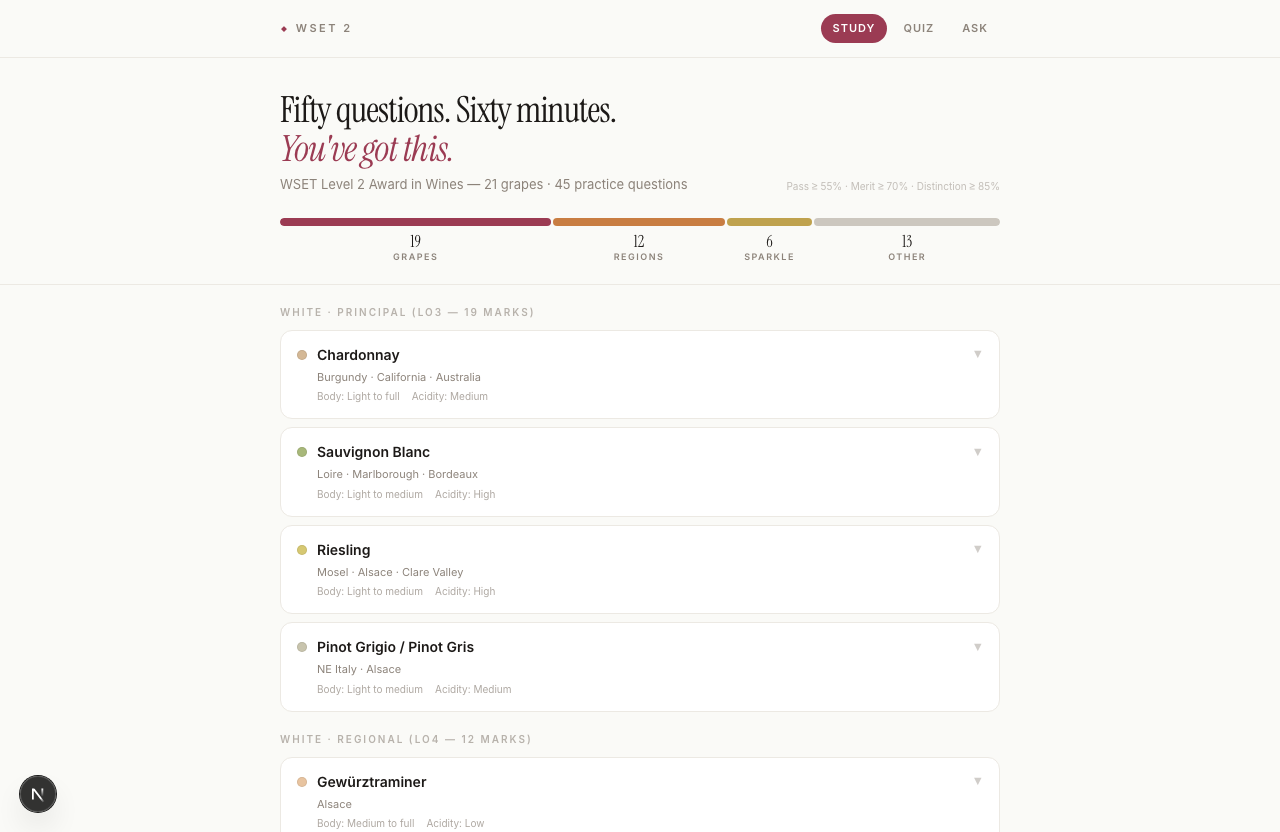
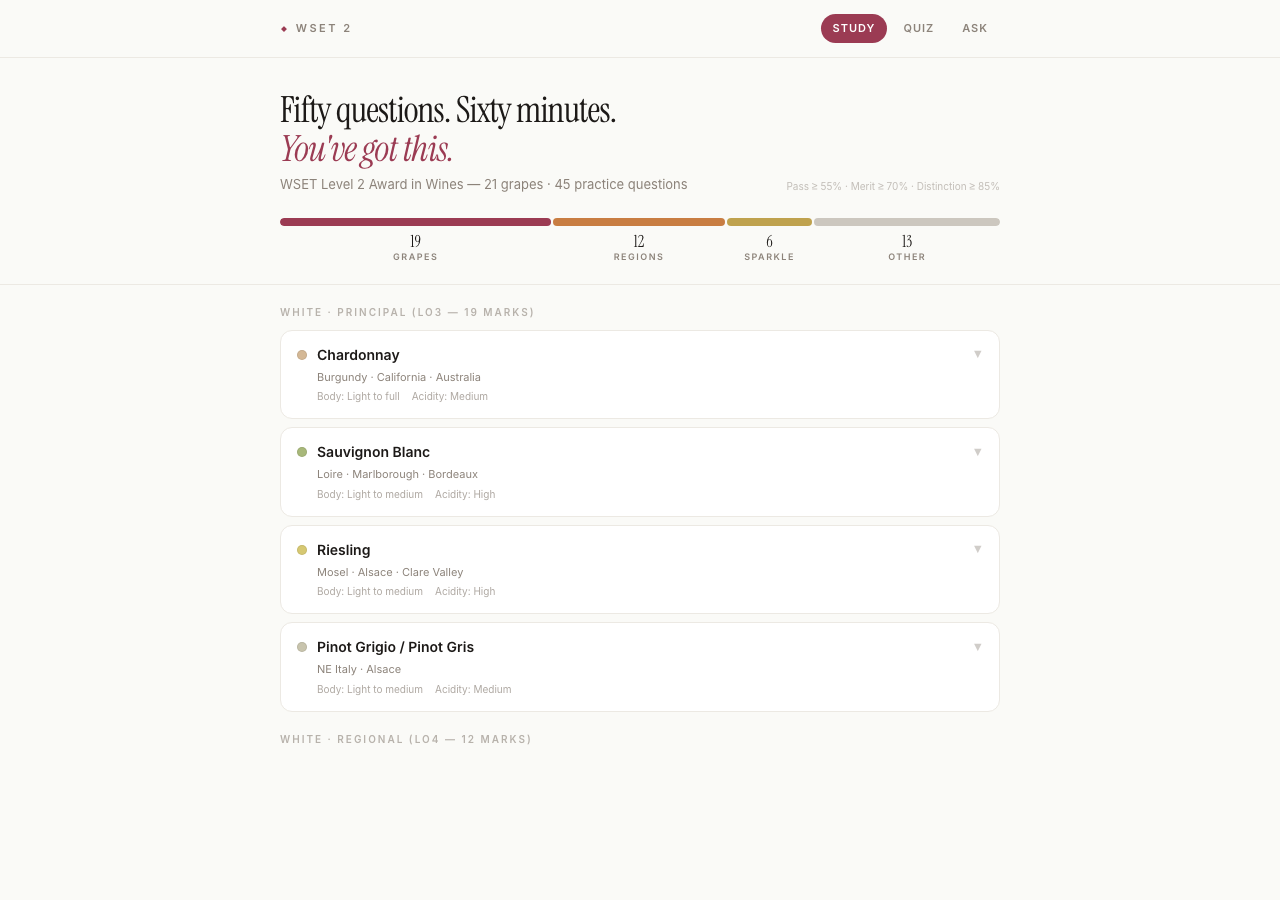
Add Quiz/Ask screenshots and capture script; refresh Study screenshot

diff --git a/README.md b/README.md
@@ -20,6 +20,14 @@ A study app for the WSET Level 2 Award in Wines exam — built for a real person
 - **Quiz** — 45 scored multiple-choice questions covering grape-to-region associations and tasting logic, graded against the exam's real pass/merit/distinction thresholds.
 - **Ask the Sommelier** — a free-form chat that answers wine questions grounded in the app's own grape data, using retrieval-augmented generation (RAG). Ask it something outside that data and it says so, instead of making something up.
 
+## Screenshots
+
+**Quiz**
+![Quiz tab screenshot](public/screenshots/quiz.png)
+
+**Ask the Sommelier**
+![Ask the Sommelier tab screenshot](public/screenshots/ask.png)
+
 ## Why it exists
 
 Built for Zeal, an Assistant Manager studying for her WSET Level 2 exam, scoped around one fact from the syllabus: grape varieties and their regions make up 62% of the exam. The app deliberately covers that ground well rather than the whole syllabus shallowly.